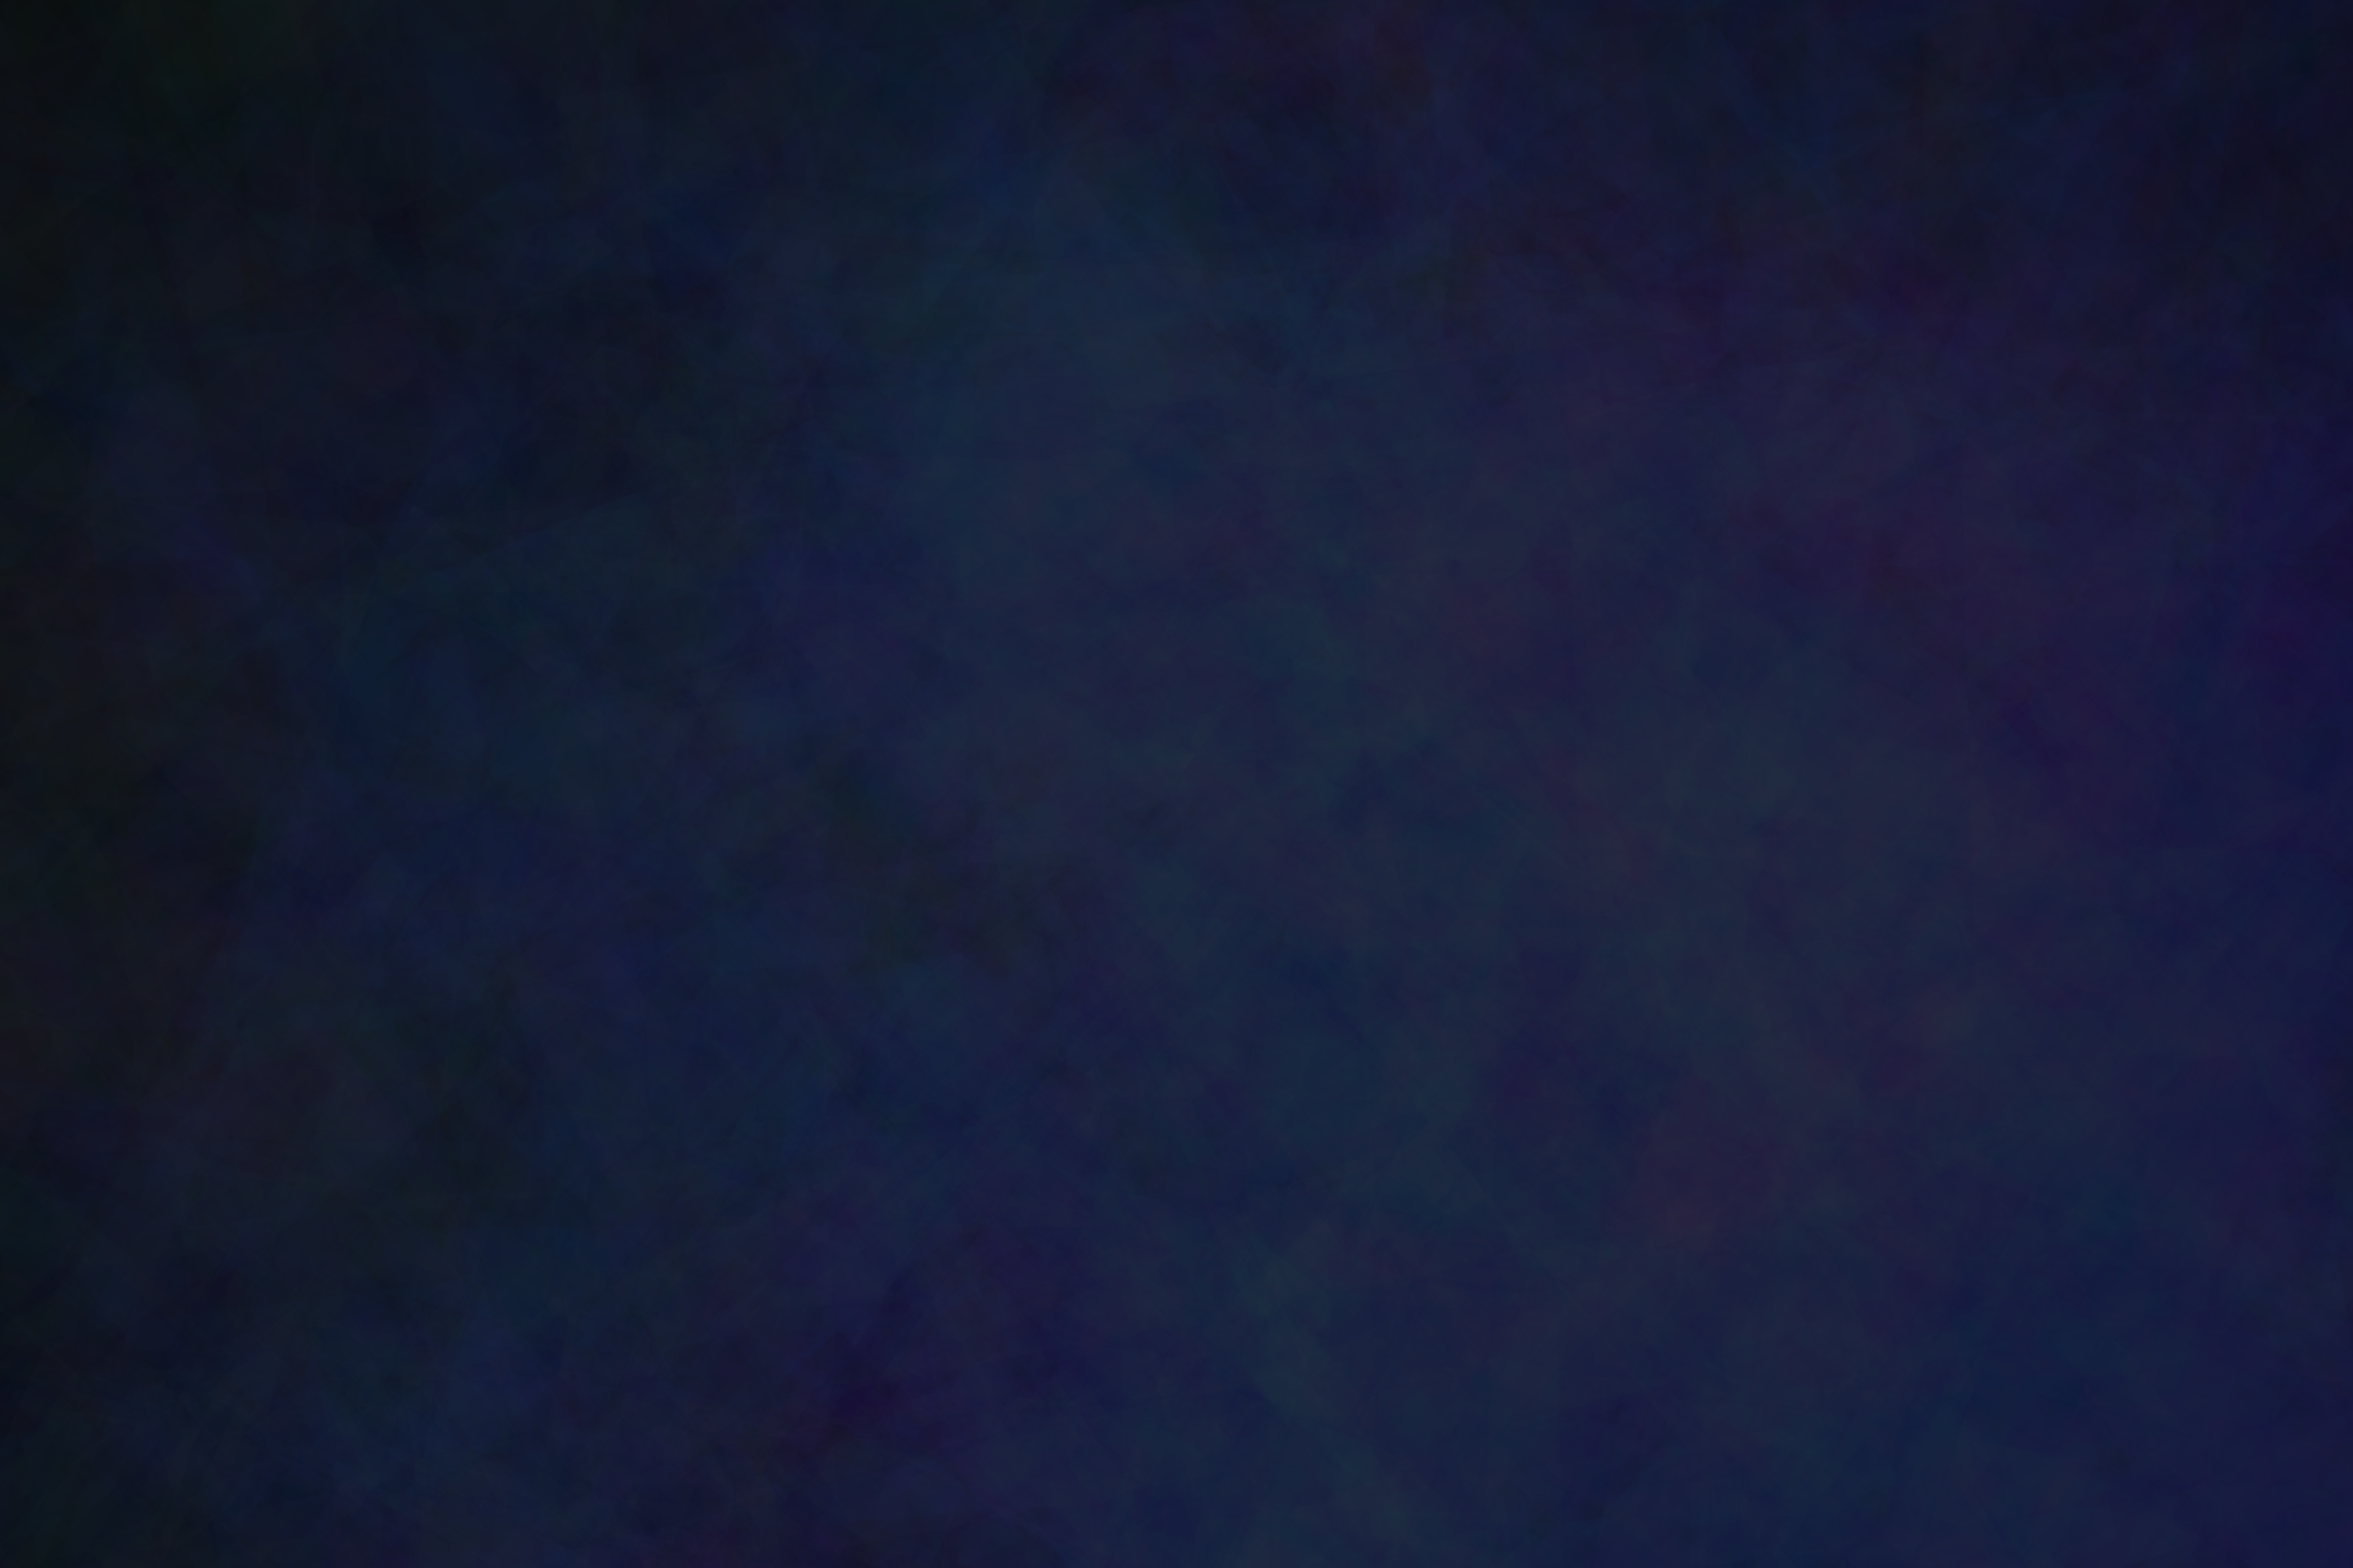
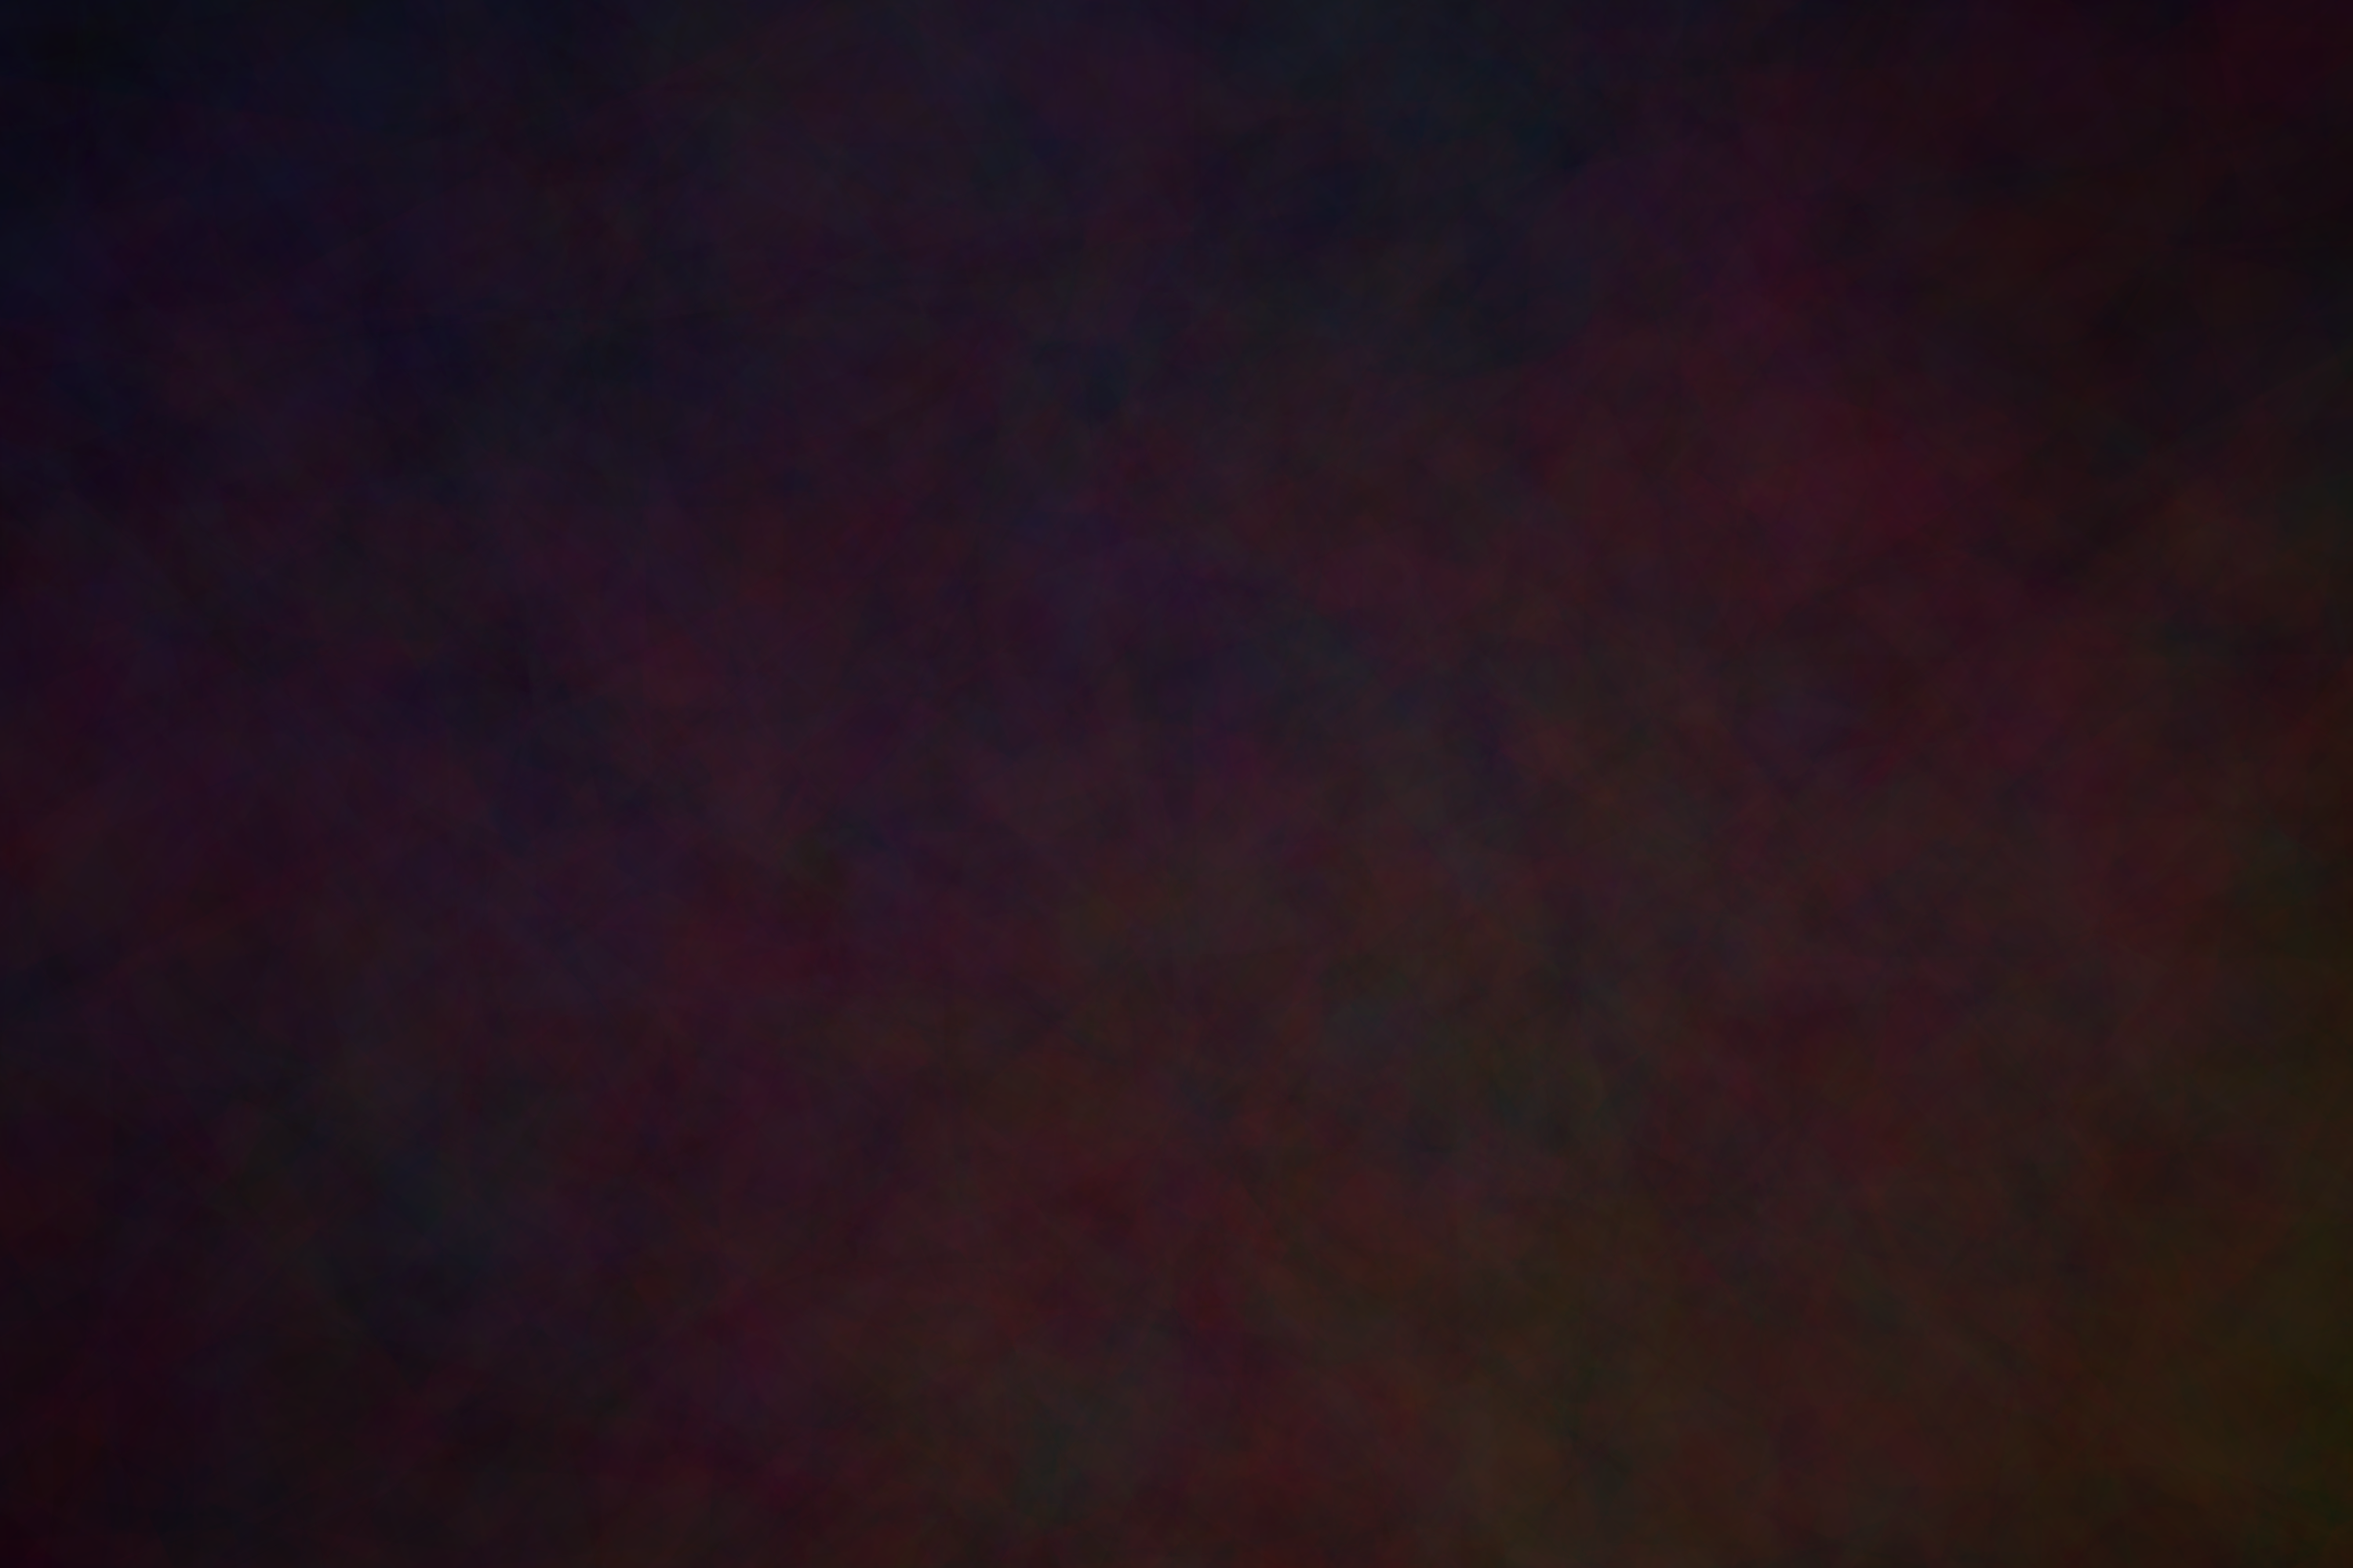
adds extra layers

diff --git a/nebula_generator.py b/nebula_generator.py
@@ -113,6 +113,37 @@ def main():
                 cr.line_to(layer[i][0], layer[i][1])
             cr.fill()
 
+    for p in range(-int(height*.2), int(height*1.2), 60):
+        cr.set_source_rgba(0, 0, 0, shapealpha)
+
+        shape = octagon(random.randint(-100, width+100), p, random.randint(100, 300))
+        baseshape = deform(shape, basedeforms, initial)
+
+        # for j in range(random.randint(minshapes, maxshapes)):
+        for j in range(20):
+            tempshape = copy.deepcopy(baseshape)
+            layer = deform(tempshape, finaldeforms, deviation)
+
+            for i in range(len(layer)):
+                cr.line_to(layer[i][0], layer[i][1])
+            cr.fill()
+            
+    # add black here?
+    for p in range(-int(height*.2), int(height*1.2), 60):
+        cr.set_source_rgba(0, 0, 0, shapealpha)
+
+        shape = octagon(random.randint(-100, width+100), p, random.randint(100, 300))
+        baseshape = deform(shape, 0, 0)
+
+        # for j in range(random.randint(minshapes, maxshapes)):
+        for j in range(2):
+            tempshape = copy.deepcopy(baseshape)
+            layer = deform(tempshape, finaldeforms, deviation)
+
+            for i in range(len(layer)):
+                cr.line_to(layer[i][0], layer[i][1])
+            cr.fill()
+    
     ims.write_to_png('Examples/nebula' + '.png')
 
 if __name__ == "__main__":
